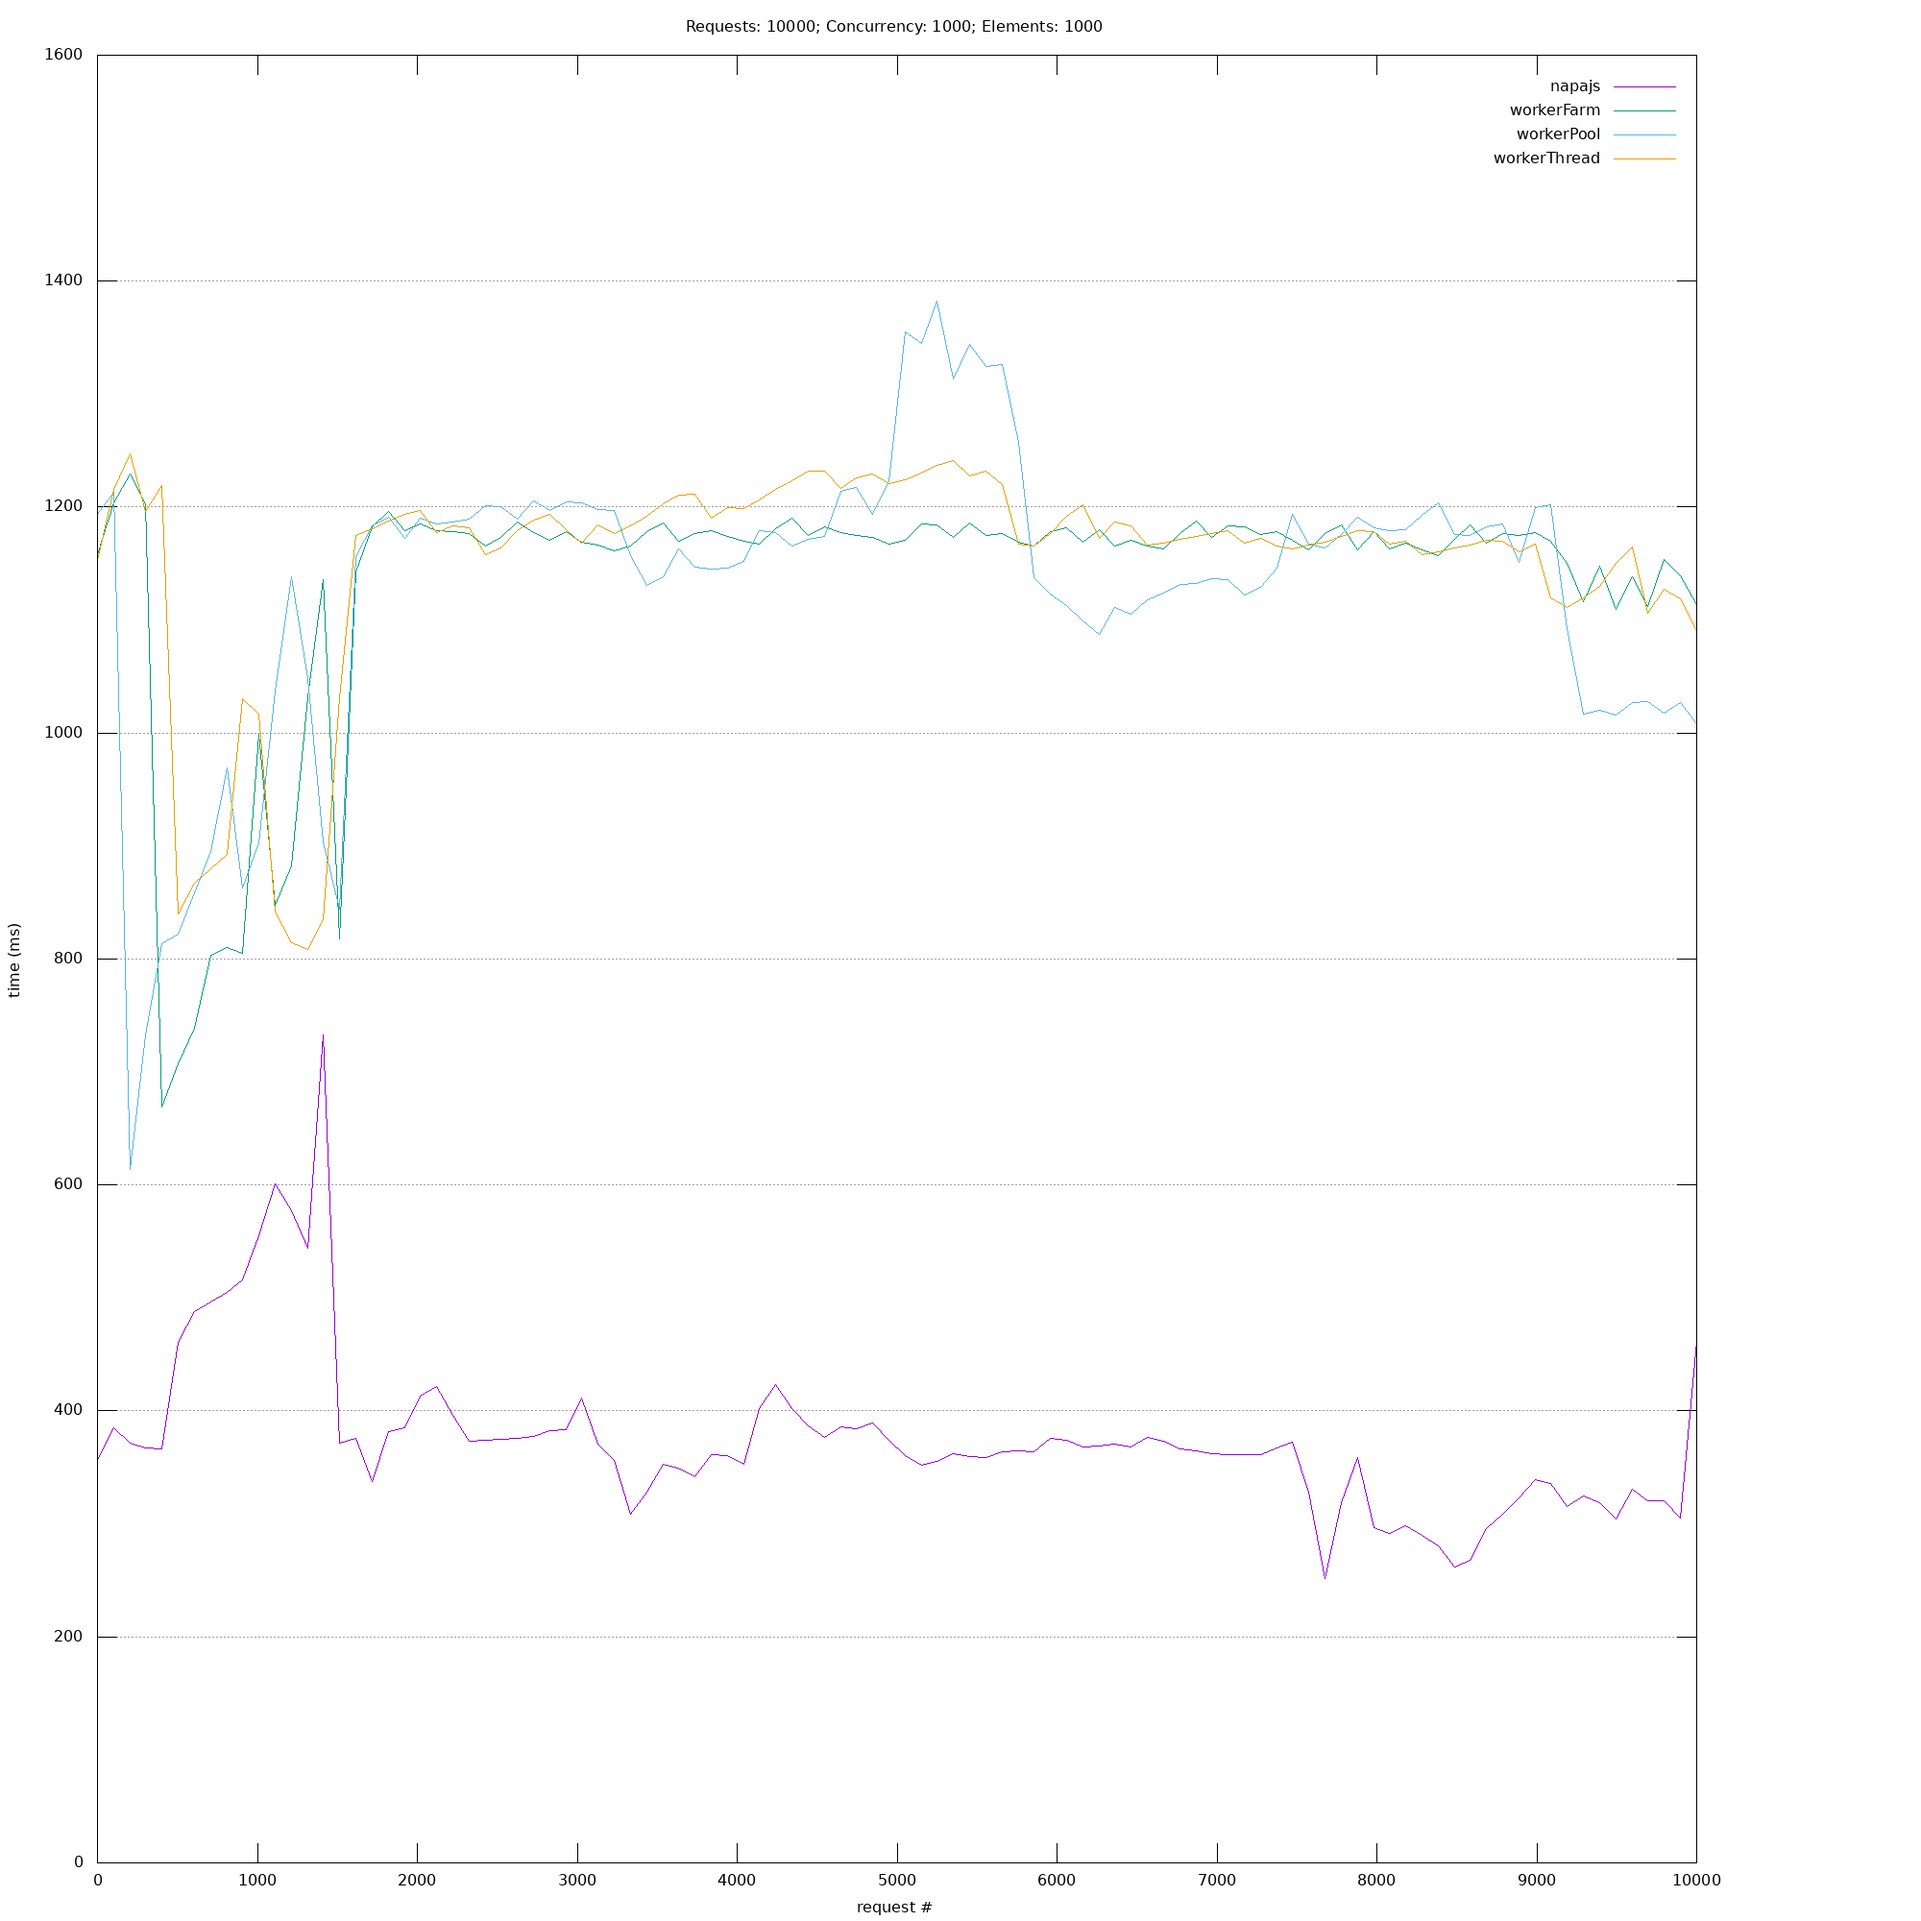
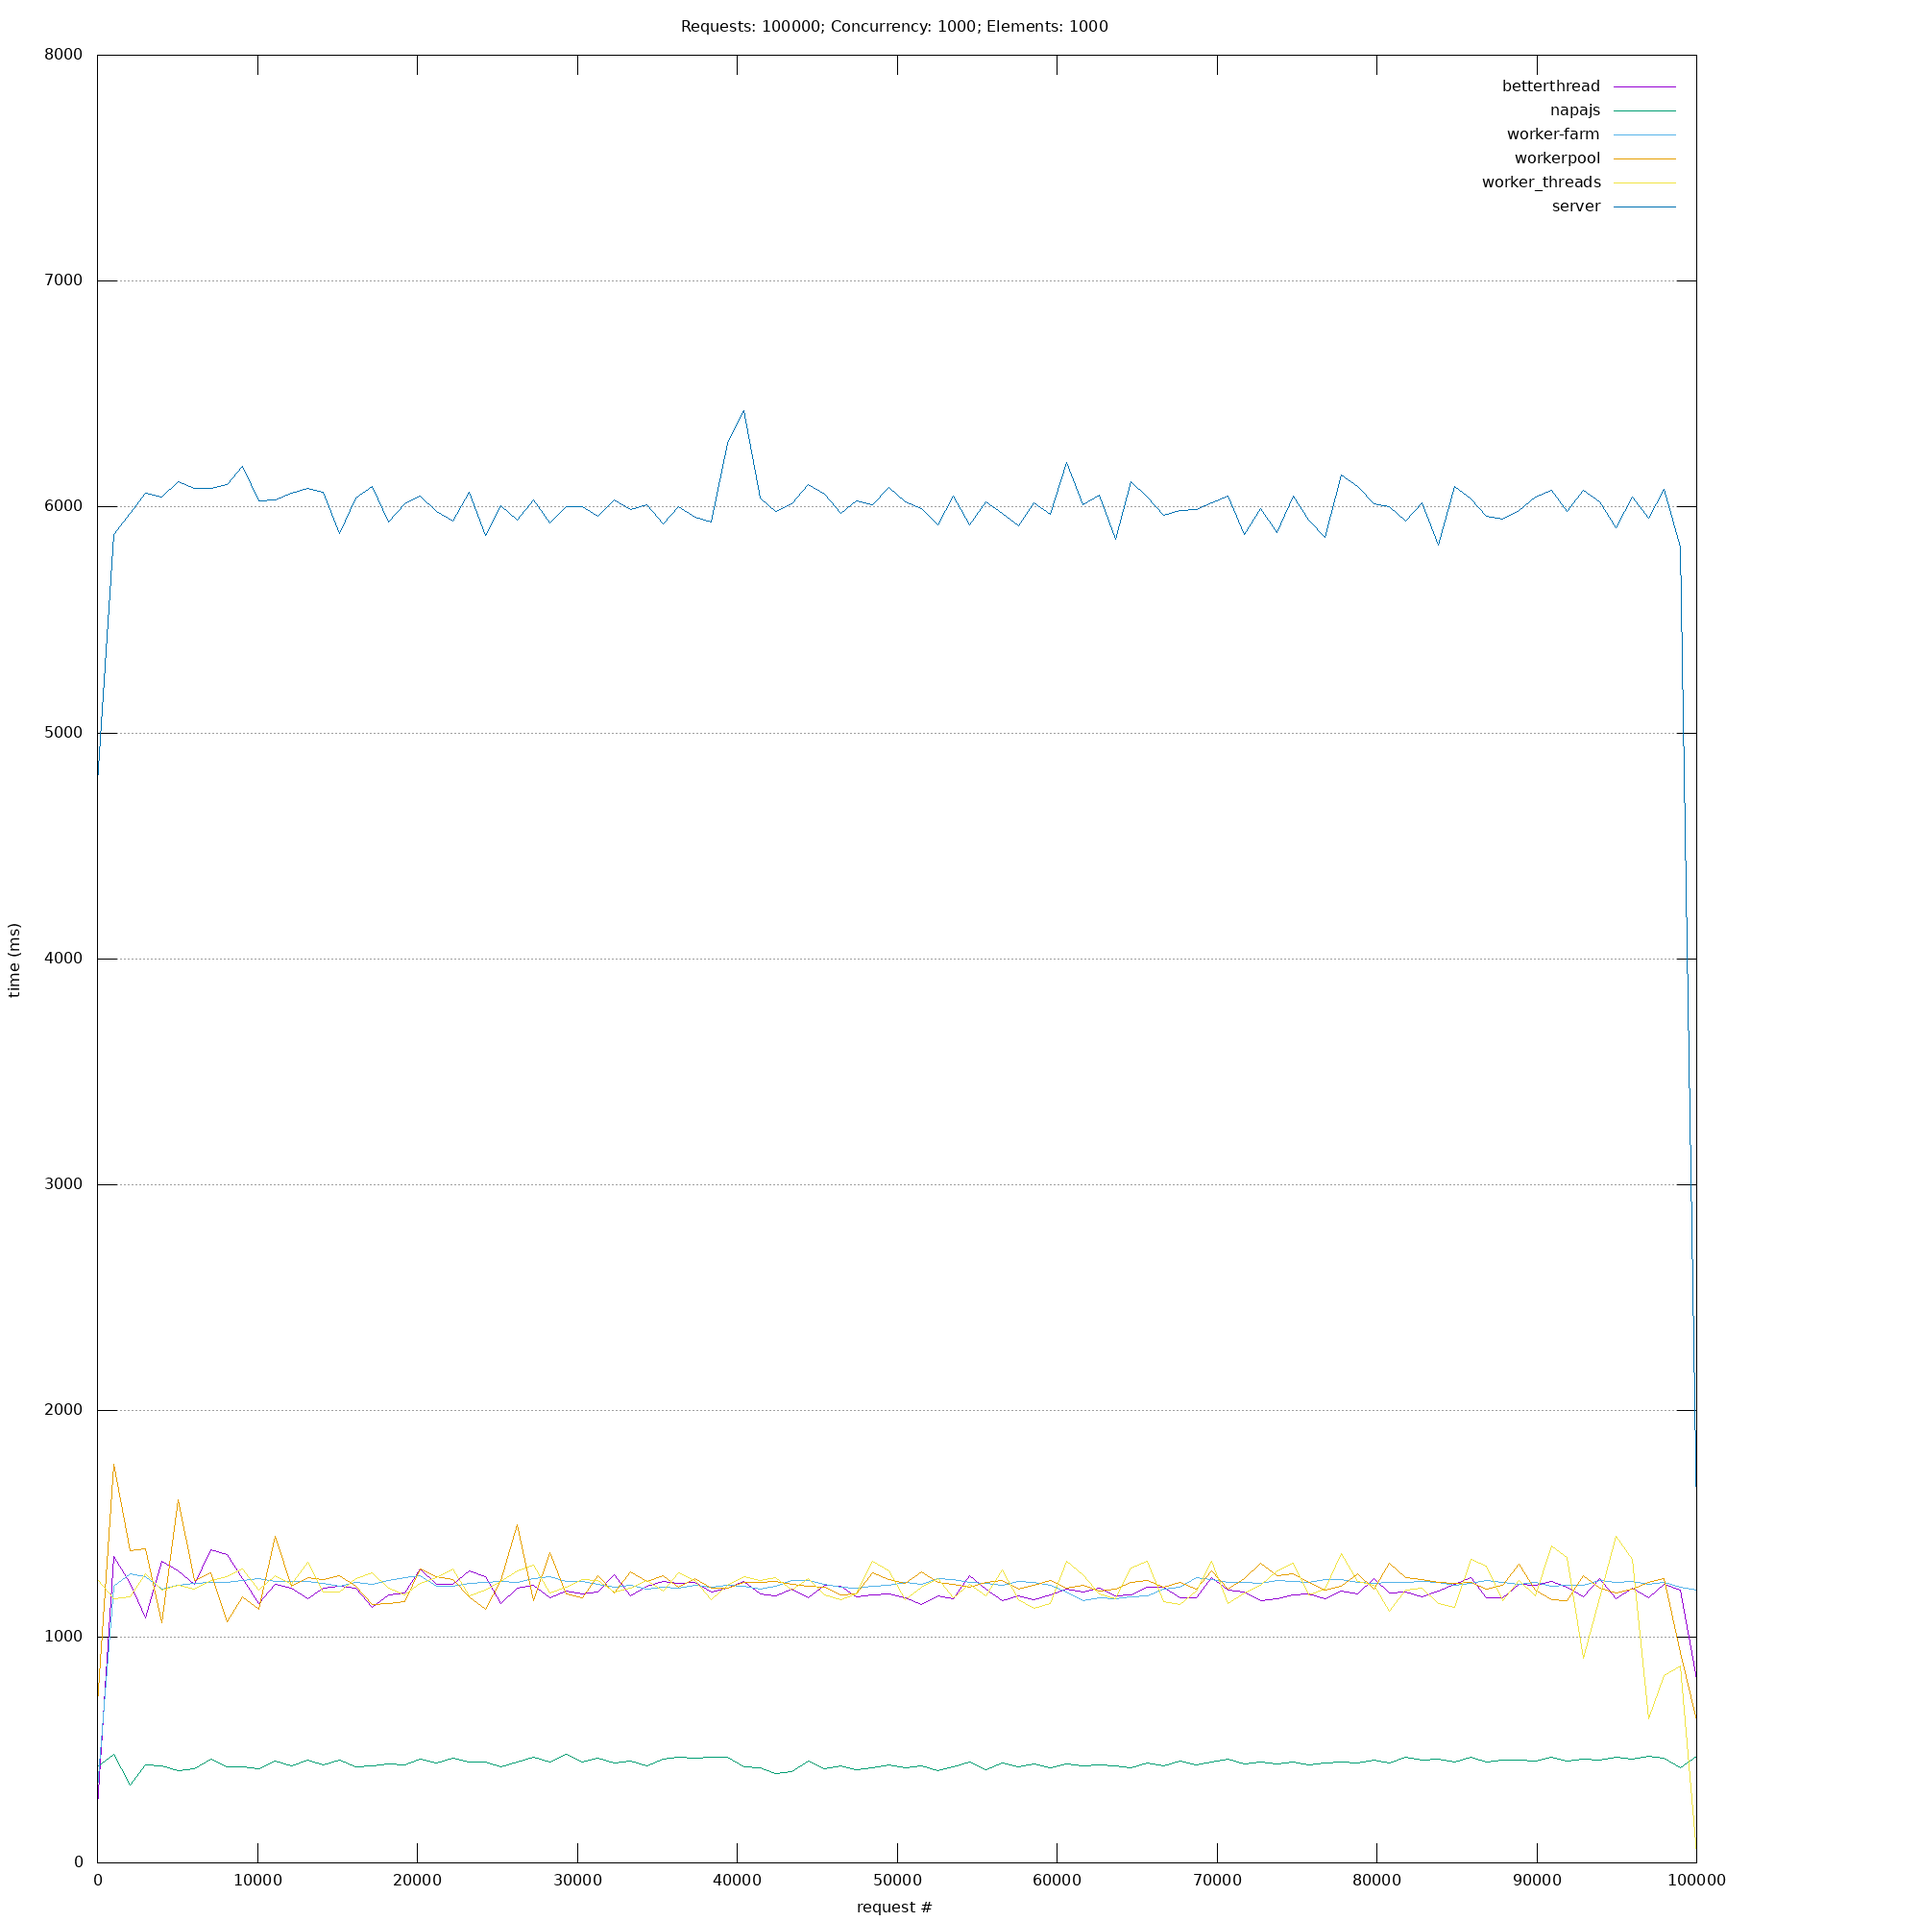
adding betterthread; generic-pool where appropiate; fix bench script to be not stupid

diff --git a/app/types/worker_threads.js b/app/types/worker_threads.js
@@ -1,51 +1,41 @@
-
 const {TextDecoder} = require('util')
+const {createPool} = require('generic-pool')
 const {Worker, MessageChannel} = require('worker_threads')
 const workers = require('os').cpus().length
 
-exports.factory = async entry => {
-  const pool = new ThreadPool(entry, workers)
-  return state => pool.work(state)
+let pool = null
+
+exports.factory = async (entry) => {
+
+  pool = createPool({
+    create: () => new Worker(entry),
+    destroy: (thread) => new Promise(resolve => thread.terminate(resolve))
+  }, {min: 1, max: workers})
+
+  return async state => {
+
+    const worker = await pool.acquire()
+    const decoder = new TextDecoder()
+
+    return new Promise((resolve, reject) => setImmediate(() => {
+
+      const {port1, port2: port} = new MessageChannel()
+
+      port1.once('message', ({result, error}) => {
+        if (error) { return reject(error) }
+        resolve(decoder.decode(result))
+      })
+
+      worker.postMessage({port, ...state}, [port])
+      pool.release(worker)
+
+    }))
+
+  }
+
 }
 
-// todo: is there a clean way to close this?
-exports.close = () => {}
-
-class ThreadPool {
-
-  constructor (entry, num) {
-    this.queue = []
-    this.workers = []
-    this.decoder = new TextDecoder()
-    for (let i = 0; i < num; i++) {
-      this.workers.push(new Worker(entry))
-    }
-  }
-
-  work (task) {
-    return new Promise((resolve, reject) => {
-      this.queue.push({task, resolve, reject})
-      this.do_work()
-    })
-  }
-
-  do_work () {
-    if (this.queue.length === 0 || this.workers.length === 0) {
-      return
-    }
-
-    const worker = this.workers.shift()
-    const {task, resolve, reject} = this.queue.shift()
-    const {port1, port2: port} = new MessageChannel()
-
-    port1.once('message', ({result, error}) => {
-      if (error) { reject(error) }
-      else { resolve(this.decoder.decode(result)) }
-      this.workers.push(worker)
-      this.do_work()
-    })
-
-    worker.postMessage({port, ...task}, [port])
-  }
-
+exports.close = async () => {
+  await pool.drain()
+  await pool.clear()
 }

diff --git a/app/types/betterthread.js b/app/types/betterthread.js
@@ -1,0 +1,39 @@
+'use strict'
+
+const workers = require('os').cpus().length
+const {createPool} = require('generic-pool')
+const bt = require('betterthread')
+
+let pool = null
+
+exports.factory = async () => {
+
+  pool = createPool({
+    create: () => new bt.ThreadedFunction((message, done) => {
+      const {render} = require('../../dist/server/main.js')
+      done(render(message))
+    }),
+    destroy: (thread) => thread.kill()
+  }, {min: 1, max: workers})
+
+  return async state => {
+    const thread = await pool.acquire()
+    return new Promise((resolve, reject) => {
+      const done = stuff => { resolve(stuff); clean() }
+      const error = err => { reject(err); clean() }
+      const clean = () => {
+        pool.release(thread)
+        thread.off('data', done)
+        thread.off('error', error)
+      }
+      thread.once('data', done)
+      thread.once('error', error)
+      thread.send(state)
+    })
+  }
+}
+
+exports.close = async () => {
+  await pool.drain()
+  await pool.clear()
+}

diff --git a/webpack.config.js b/webpack.config.js
@@ -78,15 +78,14 @@ const config = type => (env, argv) => {
         test: /\.js$/,
         header: `
           const {parentPort} = require('worker_threads');
-          const {TextEncoder} = require('util')
+          const {TextEncoder} = require('util');
+          const encoder = new TextEncoder();
         `,
-        footer: `;
-          const encoder = new TextEncoder()
-          parentPort.on('message', ({port, ...rest}) => {
+        footer: `;parentPort.on('message', ({port, ...state}) => {
             let buffer = null;
             let error = null;
             try {
-              ({buffer: result} = encoder.encode(app.render(rest)))
+              ({buffer: result} = encoder.encode(app.render(state)))
             } catch (err) {
               error = err;
             }

diff --git a/app/things.js b/app/things.js
@@ -1,5 +1,6 @@
 
 const {join} = require('path')
+const betterThreadFactory = require('./types/betterthread')
 const serverFactory = require('./types/server')
 const webworkerThreadsFactory = require('./types/webworker-threads')
 const napaFactory = require('./types/napajs')
@@ -11,6 +12,11 @@ module.exports = {
   server: {
     factory: serverFactory.factory,
     close: serverFactory.close,
+    entry: join(__dirname, '../dist/server/main.js')
+  },
+  betterthread: {
+    factory: betterThreadFactory.factory,
+    close: betterThreadFactory.close,
     entry: join(__dirname, '../dist/server/main.js')
   },
   'webworker-threads': {

diff --git a/app/types/worker-farm.js b/app/types/worker-farm.js
@@ -5,12 +5,9 @@ let workers = null
 
 exports.factory = entry => {
   workers = workerFarm({autoStart: true}, require.resolve(entry), ['render'])
-  return async state => {
-    return new Promise((resolve, reject) =>
-      workers.render(state, (err, result) =>
-        setImmediate(() => err ? reject(err) : resolve(result)))
-    )
-  }
+  return async state => new Promise((resolve, reject) => setImmediate(() =>
+    workers.render(state, (err, result) => err ? reject(err) : resolve(result))
+  ))
 }
 
 exports.close = () => new Promise(resolve => workerFarm.end(workers, resolve))

diff --git a/app/types/server.js b/app/types/server.js
@@ -2,18 +2,14 @@ exports.factory = entry => {
 
   const {render} = require(entry)
 
-  return async state => {
-    return new Promise((resolve, reject) =>
-      setImmediate(() => {
-        try {
-          const result = render(state)
-          resolve(result)
-        } catch (err) {
-          reject(err)
-        }
-      }
-    ))
-  }
+  return async state => new Promise((resolve, reject) => setImmediate(() => {
+    try {
+      const result = render(state)
+      resolve(result)
+    } catch (err) {
+      reject(err)
+    }
+  }))
 }
 
 exports.close = () => {}

diff --git a/app/types/webworker-threads.js b/app/types/webworker-threads.js
@@ -6,12 +6,10 @@ exports.factory = entry => {
   const thread = threads.create()
   thread.load(entry)
 
-  return async state => {
-    return new Promise((resolve, reject) =>
-      thread.eval(`app.render(${JSON.stringify(state)})`, (err, result) =>
-        setImmediate(() => err ? reject(err) : resolve(result))
-    ))
-  }
+  return async state => new Promise((resolve, reject) =>
+    thread.eval(`app.render(${JSON.stringify(state)})`, (err, result) =>
+      setImmediate(() => err ? reject(err) : resolve(result))
+  ))
 
 }
 

diff --git a/README.MD b/README.MD
@@ -7,6 +7,8 @@ There are two routes - each takes a `number` parameter for # of spans to render.
 
 - `/server/:number` - this is the baseline, uses the current process
 
+- `/betterthread/:number` uses the `betterthread` to create a thread.
+
 - `/webworker/:number` uses `webworker-threads` to create a thread to perform work on.
 
 - `/workerFarm/:number` uses `worker-farm` to create child processes that do work
@@ -31,21 +33,19 @@ cd scripts
 ./bensh.sh # this can take a while
 ```
 
-Note that I don't do benches on `server` because everything else blows it out of the water.
-
 ### At the time of this writing
 
-napajs is the clear winner. `webworker-threads` in a close second - but it has problems with crashing under lots of volume.
+using no threading is incredibly slow.
 
-The various modules that defer to a `child_process` work better than running the rendering on the server, certainly.  But when compared to modules that drop into C and create a proper thread, they just don't scale as well.
+The various modules that defer to a `child_process` work better than running the rendering on the server, certainly.
 
-(napajs continually stays under 1s, while child_process modules start to take 2/3s under heavy load)
+c modules that dorp into proper threads (napajs, webworker-threads) outperforms the next fasted by a factor of 2 to 1
+
+napajs wins because `webworker-threads` crashes under heavy load.
 
 ## Todo
 
 * thread doesn't support `require` and react-dom/server pulls in `require('stream')` in r.16.  I fixed this in the dirtiest way possible, creating a dummy class and overwriting the export to point at that.  todo: figure a way to fix this properly (somehow) and add benches for streamed rendering.
-
-* make graphs make more sense - right now it's neigh impossible to read. Maybe isolate per elements/concurrency.
 
 * find more threading modules and see if they work any better.
 
